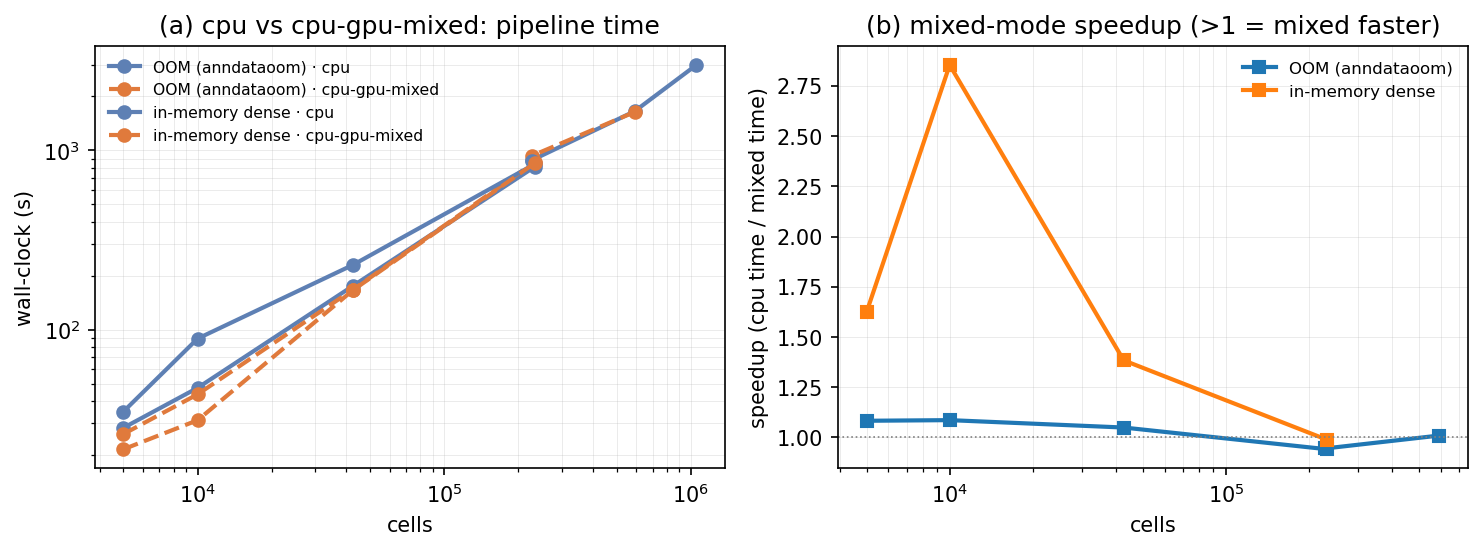
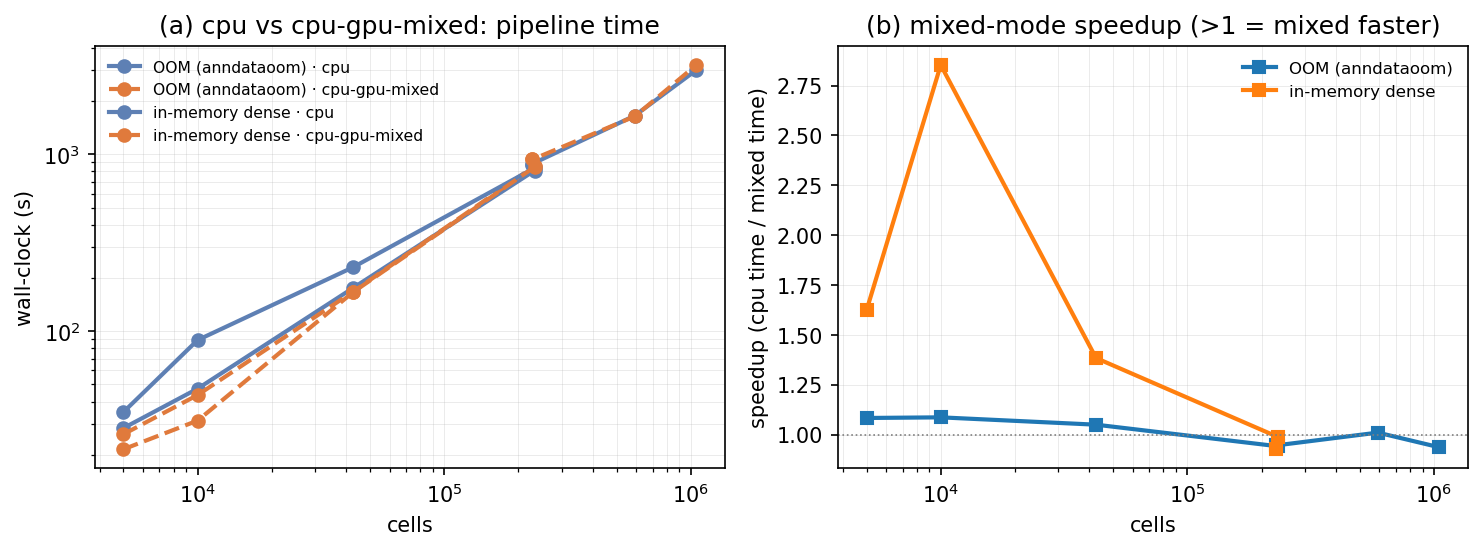
bench: complete cpu-gpu-mixed matrix (TS-1M + TS-Epi cells)
ov-oom-mixed now covers all 7 scales 5k..1M — mode-invariant at every
scale (TS-1M: cpu 2994s/4.9GB vs mixed 3198s/4.8GB, GPU 0). ov-anndata-mixed
covers 5k..epithelial (GPU PCA 13x@5k diminishing to 2.4x@228k as the CPU
dense-scale stage dominates). Regenerated fig_mixed/table_mixed/numbers + PDF.

diff --git a/benchmark/paper/numbers_mixed.tex b/benchmark/paper/numbers_mixed.tex
@@ -1,11 +1,11 @@
 % Auto-generated by scripts/plot.py — mixed-mode + compat.
-\newcommand{\mixedOomLabel}{TS-Immune}
-\newcommand{\mixedOomCells}{592,317}
-\newcommand{\mixedOomCpuSec}{1653}
-\newcommand{\mixedOomMixSec}{1637}
-\newcommand{\mixedOomSpeedup}{1.01}
-\newcommand{\mixedOomCpuRssGB}{3.4}
-\newcommand{\mixedOomMixRssGB}{3.2}
+\newcommand{\mixedOomLabel}{TS-1M}
+\newcommand{\mixedOomCells}{1,053,033}
+\newcommand{\mixedOomCpuSec}{2994}
+\newcommand{\mixedOomMixSec}{3198}
+\newcommand{\mixedOomSpeedup}{0.94}
+\newcommand{\mixedOomCpuRssGB}{4.9}
+\newcommand{\mixedOomMixRssGB}{4.8}
 \newcommand{\mixedOomGpuMB}{0}
 \newcommand{\mixedAnnLabel}{TS-5k}
 \newcommand{\mixedAnnCells}{5,000}
@@ -14,9 +14,9 @@
 \newcommand{\mixedAnnPcaSpeedup}{13}
 \newcommand{\mixedAnnTotalSpeedup}{1.62}
 \newcommand{\mixedAnnPcaGpuMB}{324}
-\newcommand{\mixedAnnBigLabel}{TS-Stromal}
-\newcommand{\mixedAnnBigCells}{232,684}
-\newcommand{\mixedAnnBigPcaSpeedup}{4.3}
-\newcommand{\mixedAnnBigTotalSpeedup}{0.99}
+\newcommand{\mixedAnnBigLabel}{TS-Epi}
+\newcommand{\mixedAnnBigCells}{228,032}
+\newcommand{\mixedAnnBigPcaSpeedup}{2.4}
+\newcommand{\mixedAnnBigTotalSpeedup}{0.93}
 \newcommand{\compatNFuncs}{24}
 \newcommand{\compatNOk}{14}

diff --git a/benchmark/paper/table_mixed.tex b/benchmark/paper/table_mixed.tex
@@ -9,11 +9,11 @@ OOM (anndataoom) & TS-Vasc & 175.3 & 1156.3 & 167.0 & 1140.0 & 0.0 & 1.05 \\
 OOM (anndataoom) & TS-Stromal & 809.4 & 2196.4 & 859.7 & 2163.9 & 0.0 & 0.94 \\
 OOM (anndataoom) & TS-Epi & 884.1 & 2166.5 & 935.2 & 2087.7 & 0.0 & 0.95 \\
 OOM (anndataoom) & TS-Immune & 1653.5 & 3487.7 & 1637.3 & 3267.8 & 0.0 & 1.01 \\
-OOM (anndataoom) & TS-1M & 2993.9 & 5061.1 & -- & -- & -- & -- \\
+OOM (anndataoom) & TS-1M & 2993.9 & 5061.1 & 3198.0 & 4941.7 & 0.0 & 0.94 \\
 in-memory dense & TS-5k & 34.9 & 2701.2 & 21.5 & 3166.7 & 324.4 & 1.62 \\
 in-memory dense & TS-10k & 89.0 & 4699.6 & 31.2 & 5123.9 & 400.7 & 2.85 \\
 in-memory dense & TS-Vasc & 229.6 & 20077.7 & 165.9 & 20366.7 & 898.9 & 1.38 \\
 in-memory dense & TS-Stromal & 837.9 & 99550.2 & 847.9 & 99161.5 & 3798.6 & 0.99 \\
-in-memory dense & TS-Epi & 873.9 & 107061.8 & -- & -- & -- & -- \\
+in-memory dense & TS-Epi & 873.9 & 107061.8 & 943.4 & 106730.5 & 3728.1 & 0.93 \\
 \bottomrule
 \end{tabular}